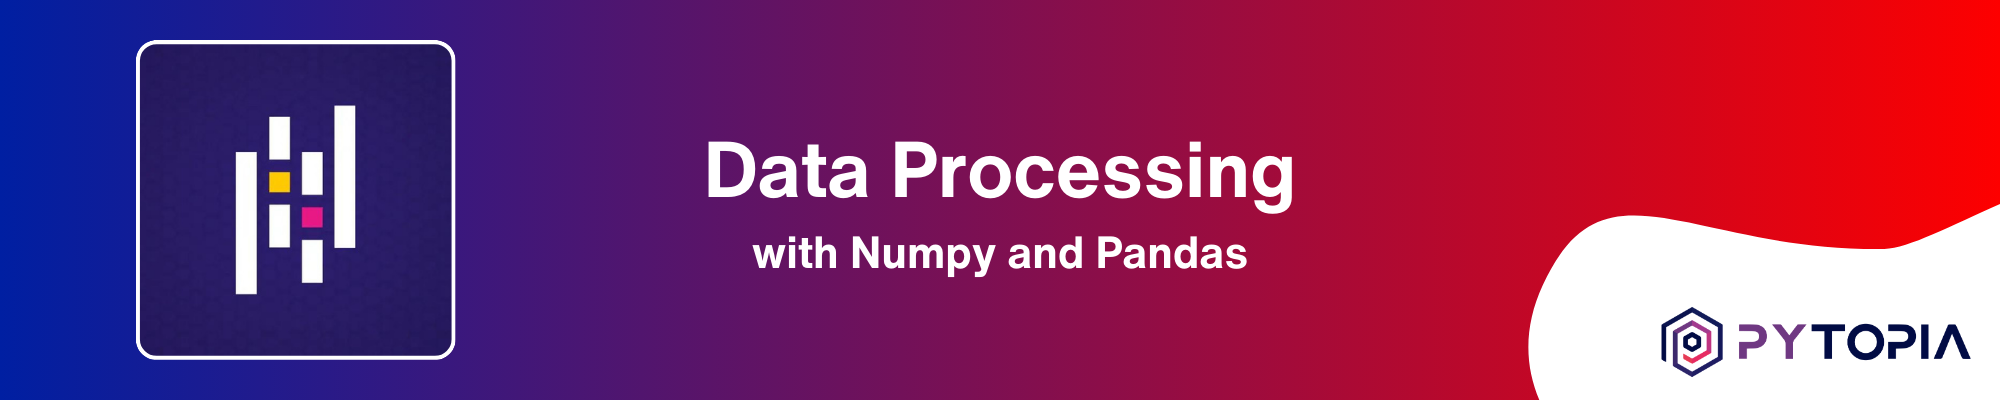
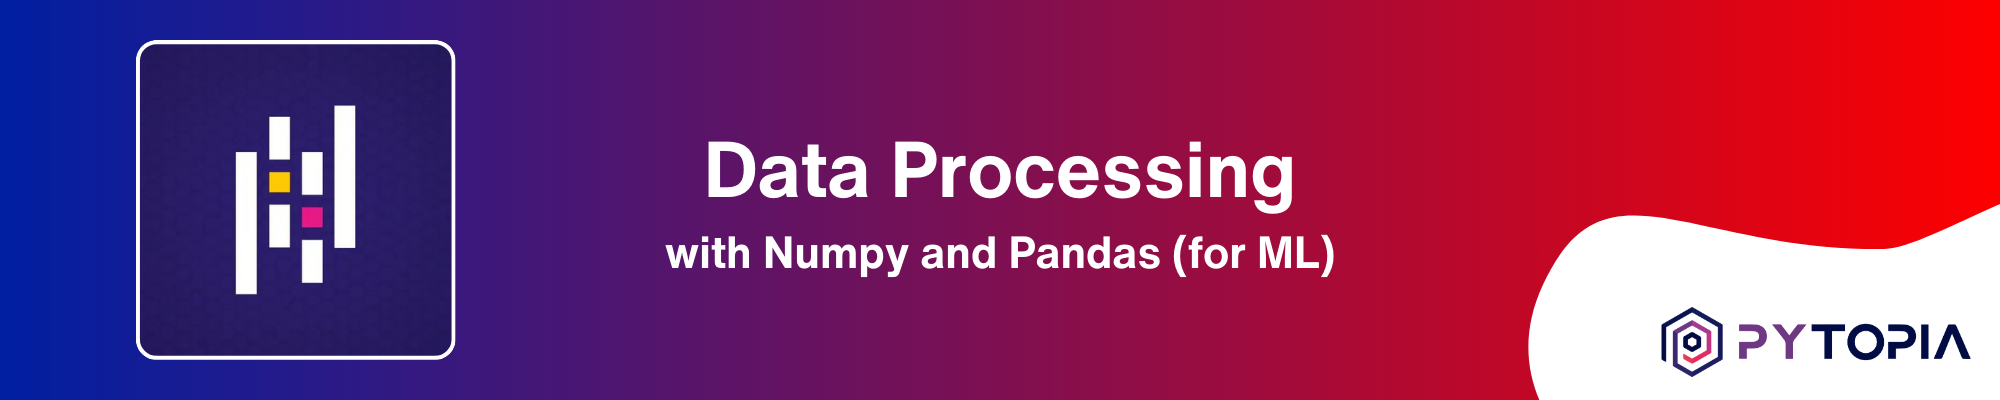
Update content

Changed region(s): [[0.31, 0.57, 0.682, 0.69]]

diff --git a/README.md b/README.md
@@ -72,13 +72,13 @@ To get started with the course, follow these steps:
 Throughout the course, you will gain a deep understanding of the essential data processing techniques and tools, such as NumPy and Pandas, which are widely used in the Machine Learning community. By working on real-world case studies and projects, you will develop the skills and confidence to tackle data processing challenges encountered in Machine Learning projects.
 
 # 📚 Learn with Us!
-We also offer a [course on these contents](https://www.pytopia.ai/courses/data-processing) where learners can interact with peers and instructors, ask questions, and participate in online coding sessions. By registering for the course, you also gain access to our dedicated Telegram group. Enroll now and start learning! Here are some useful links:
+We also offer a [course on these contents](https://www.pytopia.ai/courses/data-processing-for-ml) where learners can interact with peers and instructors, ask questions, and participate in online coding sessions. By registering for the course, you also gain access to our dedicated Telegram group. Enroll now and start learning! Here are some useful links:
 
-- [Machine Learning Course](https://www.pytopia.ai/courses/data-processing)
+- [Data Processing for ML Course](https://www.pytopia.ai/courses/data-processing-for-ml)
 - [Pytopia Public Telegram Group](https://t.me/pytopia_ai)
 - [Pytopia Website](https://www.pytopia.ai/)
 
-[<img src="./images/pytopia-course.png" width="800">](https://www.pytopia.ai/courses/data-processing)
+[<img src="./images/pytopia-course.png" width="800">](https://www.pytopia.ai/courses/data-processing-for-ml)
 
 # 🚀 Getting Started
 
